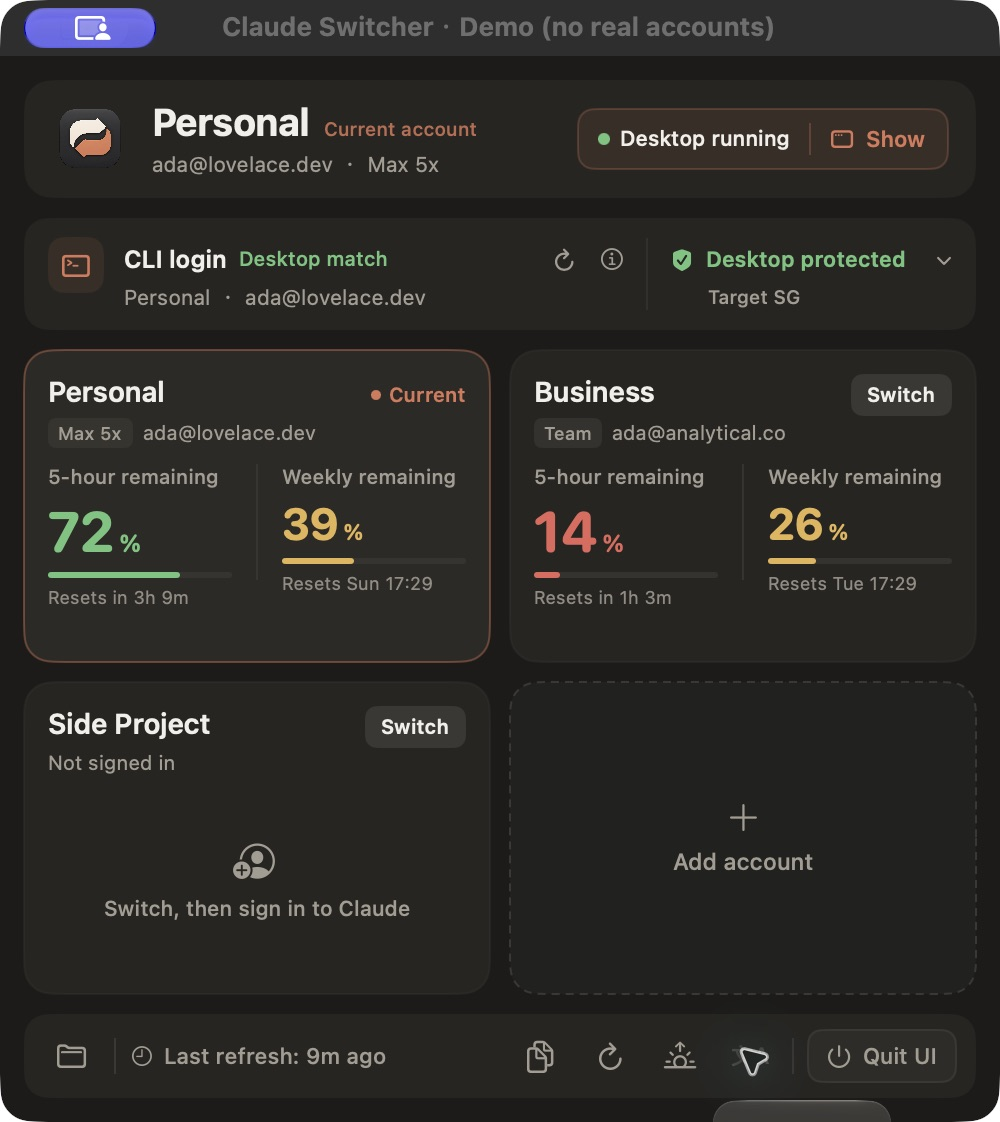
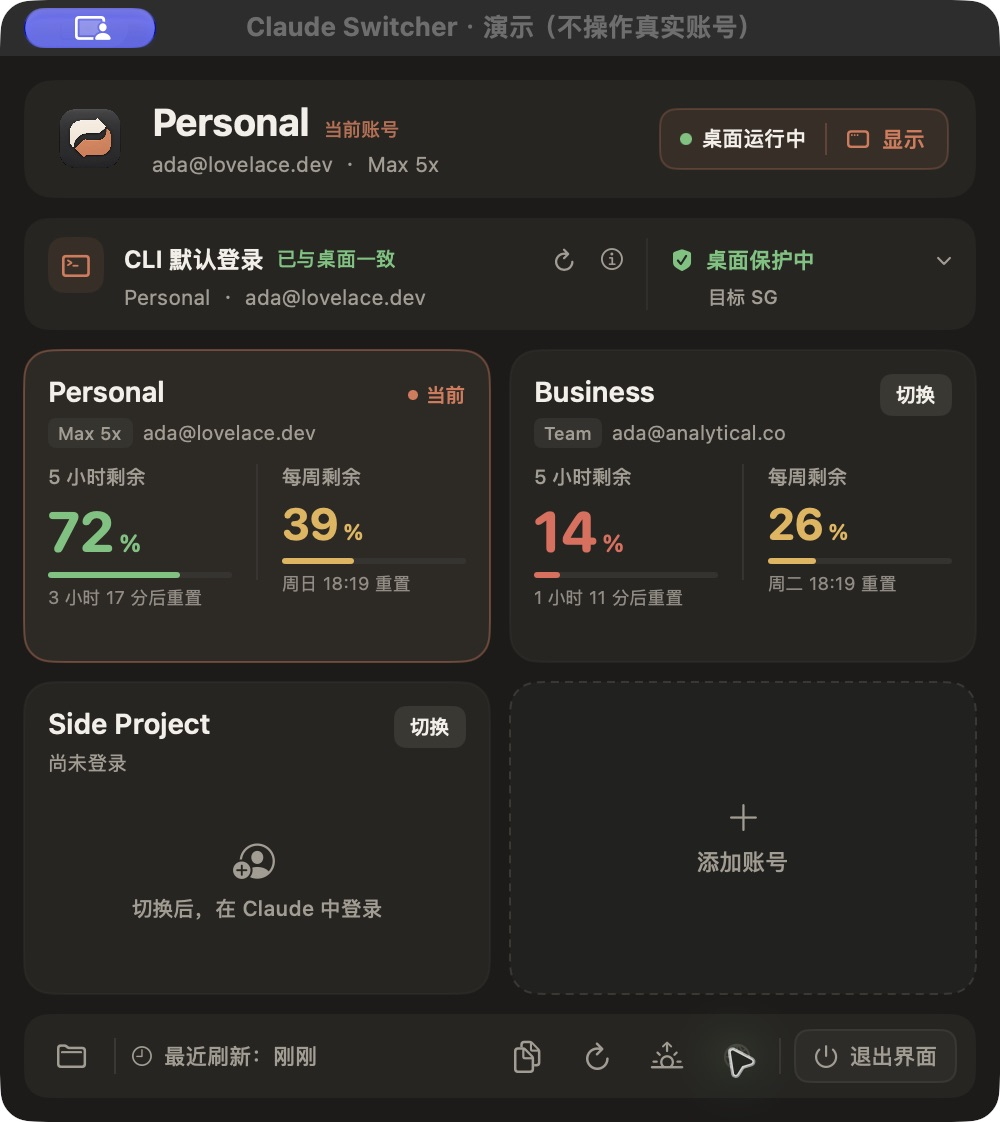
Use a globe language menu backed by a shared language registry

diff --git a/App/AppLocalization.swift b/App/AppLocalization.swift
@@ -1,15 +1,31 @@
 import SwiftUI
 import SwitcherCore
 
+struct SupportedLanguage: Identifiable {
+    let code: String
+    let selfName: String
+    let locale: Locale
+    var id: String { code }
+}
+
 enum AppLocalization {
-    static let defaultLanguage = "zh"
+    static let supportedLanguages = [
+        SupportedLanguage(code: "zh", selfName: "中文", locale: Locale(identifier: "zh_Hans_CN")),
+        SupportedLanguage(code: "en", selfName: "English", locale: Locale(identifier: "en_US"))
+    ]
+    static let defaultLanguage = supportedLanguages[0].code
+
+    static func isSupported(_ language: String) -> Bool {
+        supportedLanguages.contains { $0.code == language }
+    }
 
     static func normalized(_ language: String) -> String {
-        language == "en" ? "en" : defaultLanguage
+        isSupported(language) ? language : defaultLanguage
     }
 
     static func locale(for language: String) -> Locale {
-        Locale(identifier: normalized(language) == "en" ? "en_US" : "zh_Hans_CN")
+        let language = normalized(language)
+        return supportedLanguages.first { $0.code == language }?.locale ?? supportedLanguages[0].locale
     }
 
     static func text(_ key: String, language: String, arguments: [String: String] = [:]) -> String {

diff --git a/App/Views.swift b/App/Views.swift
@@ -828,15 +828,16 @@ struct LanguageMenu: View {
     var body: some View {
         Menu {
             Picker(selection: $selection) {
-                Text("中文").tag("zh")
-                Text("English").tag("en")
+                ForEach(AppLocalization.supportedLanguages) { language in
+                    Text(language.selfName).tag(language.code)
+                }
             } label: {
                 EmptyView()
             }
             .pickerStyle(.inline)
             .labelsHidden()
         } label: {
-            Text("文A").font(.system(size: 11.5, weight: .medium))
+            Image(systemName: "globe").font(.system(size: 13, weight: .medium))
                 .foregroundColor(hover ? .txt : .sub).frame(width: 28, height: 28)
                 .background(RoundedRectangle(cornerRadius: 7).fill(hover ? Color.stroke : .clear))
         }

diff --git a/App/main.swift b/App/main.swift
@@ -201,7 +201,7 @@ final class Store: ObservableObject {
     @Published var desktopOnlyOffer: DesktopOnlySwitchOffer?
     @Published private(set) var appLanguage = AppLocalization.defaultLanguage
     func setAppLanguage(_ value: String) {
-        guard ["zh", "en"].contains(value), value != appLanguage else { return }
+        guard AppLocalization.isSupported(value), value != appLanguage else { return }
         appLanguage = value
         if !isDemo { UserDefaults.standard.set(value, forKey: "applicationLanguage") }
         onLanguageChange?()

diff --git a/docs/GLOBAL-LANGUAGE.md b/docs/GLOBAL-LANGUAGE.md
@@ -33,9 +33,20 @@
 - 未匹配的 CLI/系统错误和罕见底层诊断保留原文，避免把用户数据或原始诊断误作可翻译界面字符串。
 - 复制指令只本地化已知说明模板；命令、路径和动态数据不变，请求文件与会话存储内容不受语言影响。
 
+## 语言注册与未来扩展
+
+`AppLocalization.supportedLanguages` 是当前唯一的语言注册表，统一提供语言代码、语言自称和 locale；菜单、支持校验、fallback 与日期格式化均读取它。当前仅注册中文和 English。
+
+未来增加语言不能只注册一个代码就宣称支持完毕，还必须：
+
+- 补齐 `AppLocalization` 与 `SessionTransferLocalization` 两套界面文案及插值参数。
+- 补齐该语言的诊断、复合消息和复制指令模板；现有仅对 `en` 生效的英文专用分支可以按需要保留。
+- 验收 500pt 主面板、164pt 保护列、底部工具栏及 680pt 复制窗口的实际排版，并检查菜单、无障碍名称、日期和相对时间。
+- 验证即时切换、重启保留、旧偏好迁移和无效语言忽略，确认账号、守卫、复制协议及用户数据不受影响。
+
 ## 验证记录
 
-界面与文案由 Kimi CLI 完成，Codex 负责独立审查、隔离测试与原生交互复核。本轮保留了主线 `c70d903` 的“复制会话 / Copy sessions”命名、真实目标及新增/更新分类摘要。当前为本地开发版，未替换正在使用的正式应用，也未发布新安装包。
+界面与文案由 Kimi CLI 完成，Codex 负责独立审查、隔离测试与原生交互复核。本轮保留了主线 `c70d903` 的“复制会话 / Copy sessions”命名、真实目标及新增/更新分类摘要。已按用户授权更新本机至 1.3.0（构建 `20261030.13.2`），GitHub 现有 Release 附件未改动。
 
 - 176 项 Core 测试、147 项控制器隔离检查通过，release 构建与 ad-hoc 签名验证通过。
 - 中英文应用文案各 266 个键、复制文案各 79 个键；键集合、重复键及插值参数检查通过。
@@ -44,6 +55,8 @@
 - 原生演示验证中英双向切换、已有复制窗口同步、搜索保留、全选与半选、确认/取消、新增 1 项加更新 1 项、真实目标摘要、备份范围预览、撤销和返回。复制与撤销仅操作临时虚构会话。
 - 复制指令的本地化额外验证了命令、引号路径、指纹、实际 receipt 参数和用户名称保持原样。
 - 复核了 500pt 主面板及 680pt 复制窗口的英文排版，保护设置、模拟结果与帮助完整可见。临时演示程序已退出。
-- 未安装开发版、改真实登录/会话、操作真实守卫或进行网络故障注入。
+- 本机更新只替换界面程序与版本信息，保留原版、守卫组件和安装路径；正常退出后重启了切换器，未停用守卫、退出 Claude 桌面、切换登录、迁移真实会话或进行网络故障注入。
 
 [验证摘要](prototypes/global-language/validation.json) · [中文主面板](prototypes/global-language/chinese-main.png) · [英文主面板](prototypes/global-language/english-main.png) · [中文复制页](prototypes/global-language/chinese-copy.png) · [英文复制页](prototypes/global-language/english-copy.png) · [英文保护设置](prototypes/global-language/english-protection.png) · [语言菜单](prototypes/global-language/language-menu.png)
+
+地球入口与相邻按钮采用相同的 13pt medium、28×28 区域和灰度/悬停样式；最新注册表版本已通过 147 项隔离检查，并用虚构数据确认菜单仍只有中英两项、无标题。
